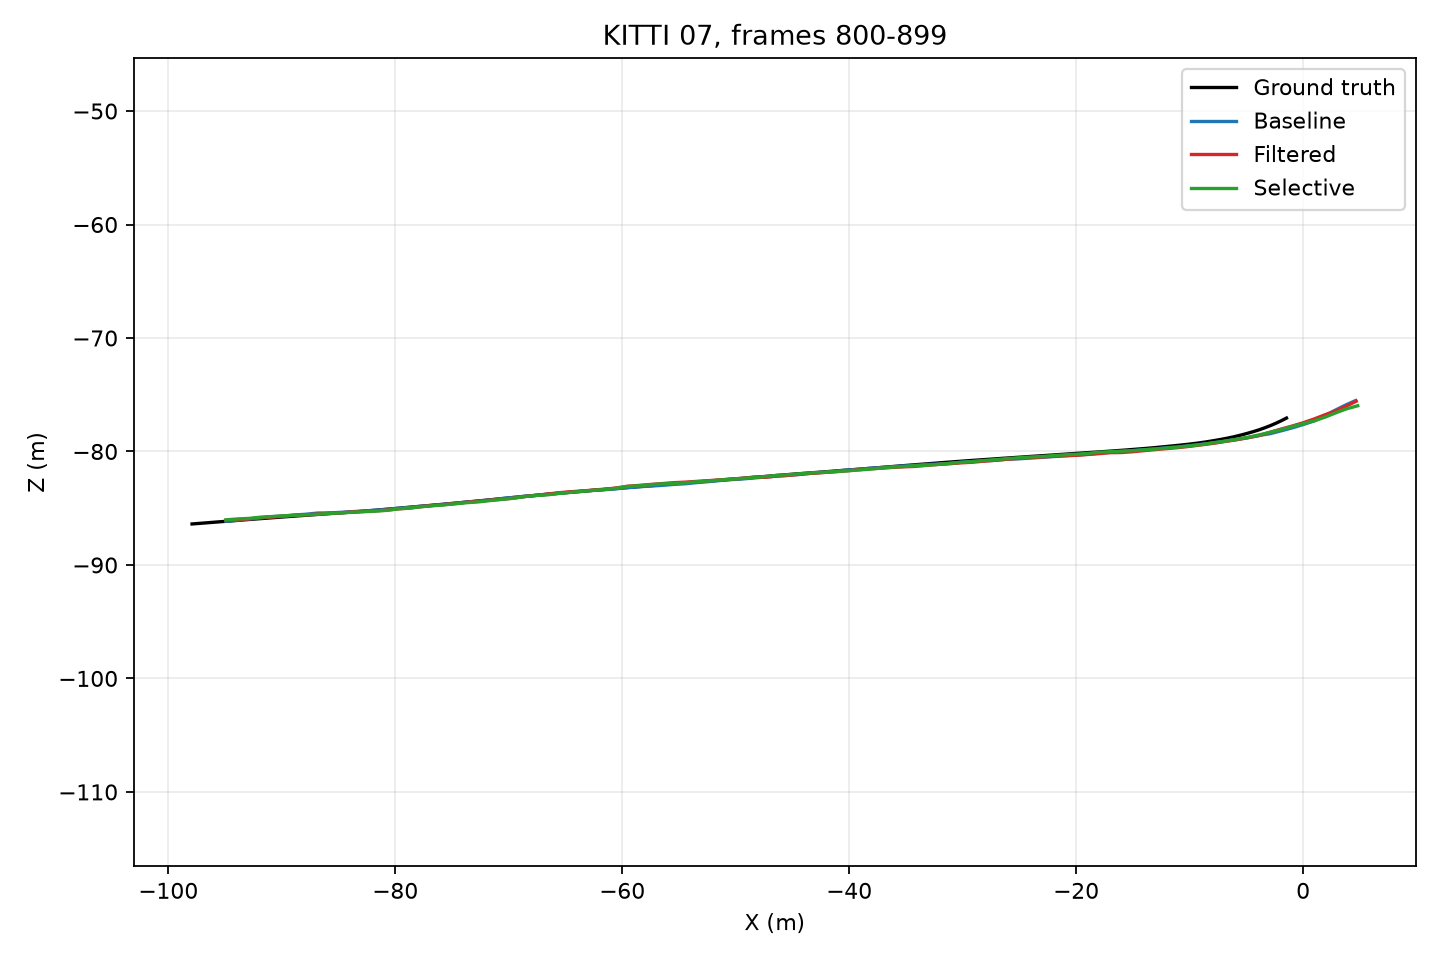
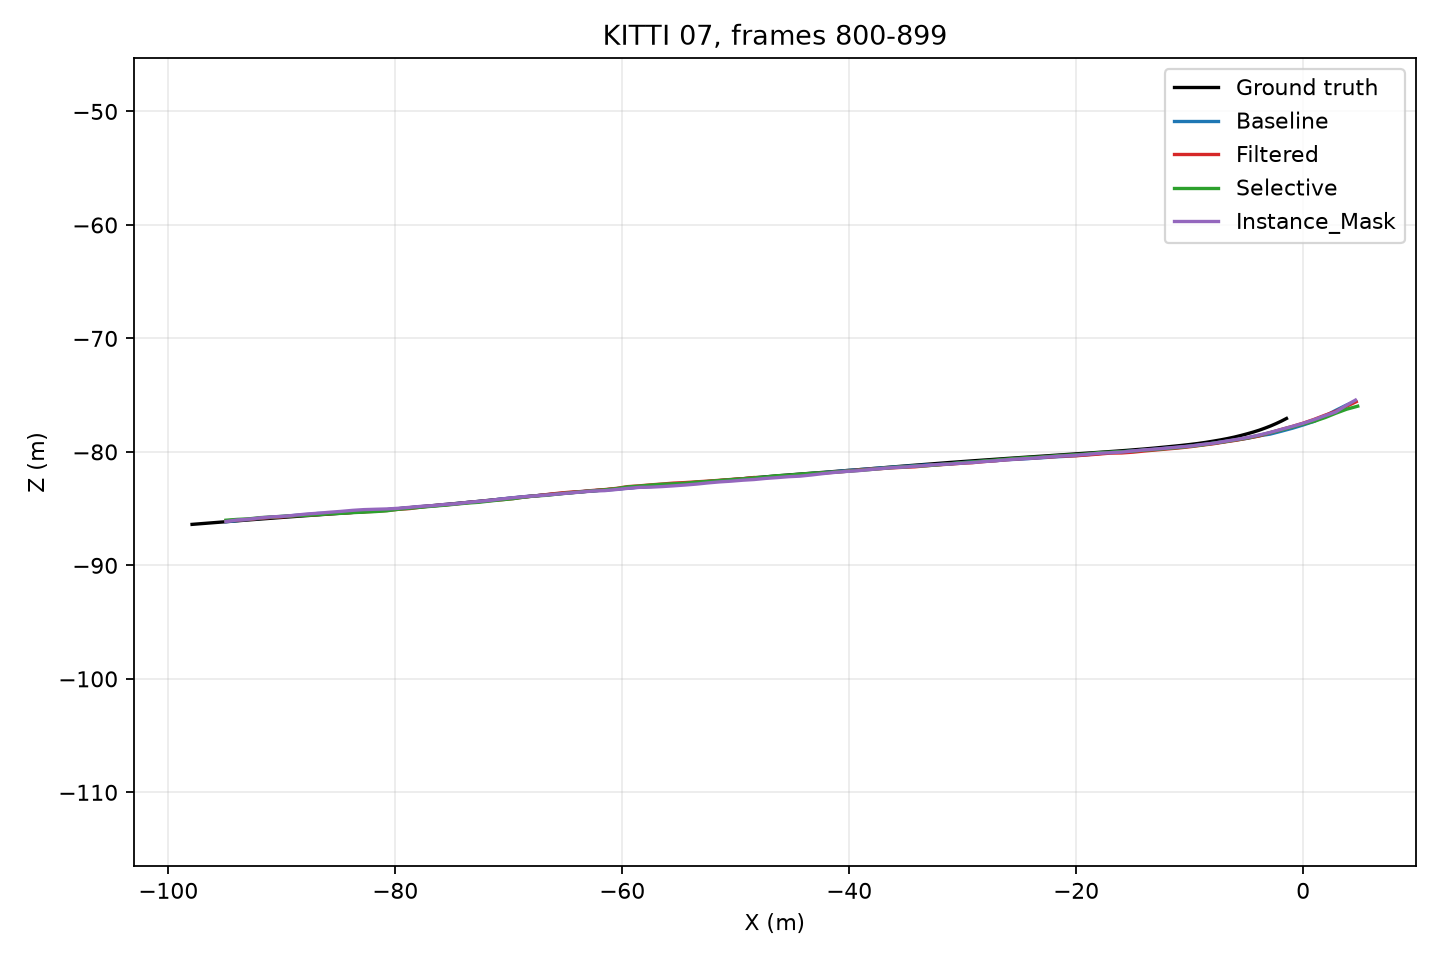
Add YOLO instance mask filtering

diff --git a/src/rvo/vo.py b/src/rvo/vo.py
@@ -59,6 +59,46 @@ def detect_boxes(model: YOLO, frame: np.ndarray, classes: set[str], confidence: 
     return boxes.xyxy.cpu().numpy()[selected], elapsed_ms
 
 
+def detect_instance_mask(model: YOLO, frame: np.ndarray, classes: set[str],
+                         confidence: float) -> tuple[np.ndarray, float]:
+    start = perf_counter()
+    result = model.predict(frame, device=0, conf=confidence, verbose=False)[0]
+    elapsed_ms = (perf_counter() - start) * 1000
+    height, width = frame.shape[:2]
+    combined = np.zeros((height, width), dtype=bool)
+    if result.masks is None or result.boxes is None or len(result.boxes) == 0:
+        return combined, elapsed_ms
+    categories = result.boxes.cls.cpu().numpy().astype(int)
+    selected = [i for i, class_id in enumerate(categories) if result.names[class_id] in classes]
+    if not selected:
+        return combined, elapsed_ms
+    masks = result.masks.data[selected].cpu().numpy()
+    for mask in masks:
+        if mask.shape != (height, width):
+            mask = cv2.resize(mask.astype(np.float32), (width, height),
+                              interpolation=cv2.INTER_NEAREST)
+        combined |= mask >= 0.5
+    return combined, elapsed_ms
+
+
+def outside_masks(before: np.ndarray, after: np.ndarray, previous_mask: np.ndarray,
+                  current_mask: np.ndarray, padding: int) -> np.ndarray:
+    if not len(before):
+        return np.zeros(0, dtype=bool)
+    height, width = previous_mask.shape
+    coords0 = np.rint(before).astype(int)
+    coords1 = np.rint(after).astype(int)
+    coords0[:, 0] = np.clip(coords0[:, 0], 0, width - 1)
+    coords0[:, 1] = np.clip(coords0[:, 1], 0, height - 1)
+    coords1[:, 0] = np.clip(coords1[:, 0], 0, width - 1)
+    coords1[:, 1] = np.clip(coords1[:, 1], 0, height - 1)
+    if padding > 0:
+        kernel = np.ones((padding * 2 + 1, padding * 2 + 1), np.uint8)
+        previous_mask = cv2.dilate(previous_mask.astype(np.uint8), kernel).astype(bool)
+        current_mask = cv2.dilate(current_mask.astype(np.uint8), kernel).astype(bool)
+    return ~previous_mask[coords0[:, 1], coords0[:, 0]] & ~current_mask[coords1[:, 1], coords1[:, 0]]
+
+
 def outside_boxes(points: np.ndarray, boxes: np.ndarray, padding: int) -> np.ndarray:
     keep = np.ones(len(points), dtype=bool)
     for left, top, right, bottom in boxes:
@@ -160,8 +200,13 @@ def run_window(root: Path, sequence: str, start_frame: int, frame_count: int,
     if not model_path.is_file():
         raise FileNotFoundError(f"Detector weights missing: {model_path}; run scripts/prepare_model.py")
     model = YOLO(str(model_path))
+    mask_model_path = Path(config["mask_filter"]["model"])
+    if not mask_model_path.is_file():
+        raise FileNotFoundError(f"Instance segmentation weights missing: {mask_model_path}; run scripts/prepare_model.py")
+    mask_model = YOLO(str(mask_model_path))
     classes = set(config["filter"]["classes"])
     confidence = float(config["filter"]["confidence"])
+    mask_confidence = float(config["mask_filter"]["confidence"])
     padding = int(config["filter"]["box_padding_px"])
 
     previous_color = cv2.imread(str(paths[0]), cv2.IMREAD_COLOR)
@@ -171,8 +216,12 @@ def run_window(root: Path, sequence: str, start_frame: int, frame_count: int,
     # Exclude model loading and the first CUDA warmup from measured frame times.
     model.predict(previous_color, device=0, conf=confidence, verbose=False)
     previous_boxes, previous_detection_ms = detect_boxes(model, previous_color, classes, confidence)
-    poses = {mode: [np.eye(4, dtype=np.float64)]
-             for mode in ("baseline", "filtered", "selective")}
+    mask_model.predict(previous_color, device=0, conf=mask_confidence, verbose=False)
+    previous_instance_mask, previous_mask_ms = detect_instance_mask(
+        mask_model, previous_color, classes, mask_confidence
+    )
+    poses = {mode: [np.eye(4, dtype=np.float64)] for mode in
+             ("baseline", "filtered", "selective", "instance_mask")}
     valid = {mode: [True] for mode in poses}
     records: list[dict] = []
 
@@ -202,12 +251,22 @@ def run_window(root: Path, sequence: str, start_frame: int, frame_count: int,
             config["selective"]
         )
         selective_ms = (perf_counter() - selective_start) * 1000
+        current_instance_mask, current_mask_ms = detect_instance_mask(
+            mask_model, current_color, classes, mask_confidence
+        )
+        mask_inference_ms = current_mask_ms + (previous_mask_ms if pair_number == 1 else 0.0)
+        mask_filter_start = perf_counter()
+        mask_keep = outside_masks(before, after, previous_instance_mask,
+                                  current_instance_mask, padding)
+        mask_filter_ms = (perf_counter() - mask_filter_start) * 1000
         selected_flow = np.linalg.norm(after[selective_mask] - before[selective_mask], axis=1)
         median_selected_flow = float(np.median(selected_flow)) if len(selected_flow) else float("inf")
 
         for mode in poses:
-            mask = {"baseline": None, "filtered": keep, "selective": selective_mask}[mode]
-            points_before, points_after = (before, after) if mask is None else (before[mask], after[mask])
+            feature_mask = {"baseline": None, "filtered": keep,
+                            "selective": selective_mask, "instance_mask": mask_keep}[mode]
+            points_before, points_after = ((before, after) if feature_mask is None
+                                           else (before[feature_mask], after[feature_mask]))
             step = estimate_step(points_before, points_after, K, poses[mode][-1], config["geometry"])
             inlier_ratio = step.ransac_inliers / step.submitted if step.submitted else 0.0
             low_motion_degeneracy = (
@@ -222,23 +281,28 @@ def run_window(root: Path, sequence: str, start_frame: int, frame_count: int,
                 total_ms += detection_ms + filtering_ms
             elif mode == "selective":
                 total_ms += detection_ms + selective_ms
+            elif mode == "instance_mask":
+                total_ms += mask_inference_ms + mask_filter_ms
             records.append({
                 "sequence": sequence, "frame": int(path.stem), "mode": mode,
                 "corners": corner_count, "tracked": len(before),
-                "removed": 0 if mask is None else int(np.count_nonzero(~mask)),
+                "removed": 0 if feature_mask is None else int(np.count_nonzero(~feature_mask)),
                 "active_boxes": active_boxes if mode == "selective" else 0,
                 "coverage_fallback": int(coverage_fallback) if mode == "selective" else 0,
                 "median_selected_flow_px": median_selected_flow if mode == "selective" else 0.0,
                 "low_motion_degeneracy": int(low_motion_degeneracy),
+                "mask_inference_ms": mask_inference_ms if mode == "instance_mask" else 0.0,
                 "submitted": step.submitted, "ransac_inliers": step.ransac_inliers,
                 "pose_inliers": step.pose_inliers, "valid": int(step.valid),
                 "read_ms": read_ms, "tracking_ms": tracking_ms,
-                "detection_ms": detection_ms if mode != "baseline" else 0.0,
+                "detection_ms": detection_ms if mode in ("filtered", "selective") else 0.0,
                 "filtering_ms": (filtering_ms if mode == "filtered" else
-                                 selective_ms if mode == "selective" else 0.0),
+                                 selective_ms if mode == "selective" else
+                                 mask_filter_ms if mode == "instance_mask" else 0.0),
                 "geometry_ms": step.geometry_ms, "total_ms": total_ms,
             })
         previous_gray, previous_boxes = current_gray, current_boxes
+        previous_instance_mask, previous_mask_ms = current_instance_mask, current_mask_ms
 
     return records, {key: np.stack(value) for key, value in poses.items()}, {
         key: np.asarray(value, dtype=bool) for key, value in valid.items()

diff --git a/scripts/prepare_model.py b/scripts/prepare_model.py
@@ -8,23 +8,25 @@ from ultralytics import YOLO
 
 
 def main() -> None:
-    destination = Path("data/models/yolo11n.pt")
-    destination.parent.mkdir(parents=True, exist_ok=True)
-    if not destination.is_file():
-        model = YOLO("yolo11n.pt")
-        source = Path(model.ckpt_path)
-        if source.resolve() != destination.resolve():
-            shutil.move(str(source), str(destination))
-    model = YOLO(str(destination))
-    print(f"Model: {destination.resolve()} ({destination.stat().st_size / 1e6:.1f} MB)")
     print(f"CUDA available: {torch.cuda.is_available()}")
     if not torch.cuda.is_available():
         raise RuntimeError("CUDA is unavailable in the project environment")
     print(f"GPU: {torch.cuda.get_device_name(0)}")
     frame = Path("data/kitti/sequences/00/image_2/000000.png")
-    if frame.is_file():
-        result = model.predict(str(frame), device=0, verbose=False)[0]
-        print(f"Detector inference: {len(result.boxes)} boxes on {frame.name}")
+    for name in ("yolo11n.pt", "yolo11n-seg.pt"):
+        destination = Path("data/models") / name
+        destination.parent.mkdir(parents=True, exist_ok=True)
+        if not destination.is_file():
+            model = YOLO(name)
+            source = Path(model.ckpt_path)
+            if source.resolve() != destination.resolve():
+                shutil.move(str(source), str(destination))
+        model = YOLO(str(destination))
+        print(f"Model: {destination.resolve()} ({destination.stat().st_size / 1e6:.1f} MB)")
+        if frame.is_file():
+            result = model.predict(str(frame), device=0, verbose=False)[0]
+            extras = f", {len(result.masks) if result.masks is not None else 0} masks" if "-seg" in name else ""
+            print(f"Inference: {len(result.boxes)} boxes{extras} on {frame.name}")
 
 
 if __name__ == "__main__":

diff --git a/src/rvo/run.py b/src/rvo/run.py
@@ -26,7 +26,8 @@ def save_plot(path: Path, reference: np.ndarray, aligned: dict[str, np.ndarray],
               valid: dict[str, np.ndarray], title: str) -> None:
     figure, axis = plt.subplots(figsize=(9, 6))
     axis.plot(reference[:, 0, 3], reference[:, 2, 3], label="Ground truth", color="black")
-    colors = {"baseline": "#1f77b4", "filtered": "#d62728", "selective": "#2ca02c"}
+    colors = {"baseline": "#1f77b4", "filtered": "#d62728",
+              "selective": "#2ca02c", "instance_mask": "#9467bd"}
     for mode, poses in aligned.items():
         axis.plot(poses[:, 0, 3], poses[:, 2, 3], label=mode.title(), color=colors[mode])
         failures = ~valid[mode]
@@ -71,7 +72,8 @@ def main() -> None:
         summary = {"sequence": sequence, "start_frame": start, "frame_count": count,
                    "camera": config["dataset"]["camera"], "detector": config["filter"]["model"],
                    "selective_settings": config["selective"],
-                   "diagnostic_settings": config["diagnostics"], "metrics": {}}
+                   "diagnostic_settings": config["diagnostics"],
+                   "mask_model": config["mask_filter"]["model"], "metrics": {}}
         aligned = {}
         common_valid = np.logical_and.reduce(list(valid.values()))
         summary["common_valid_poses"] = int(np.count_nonzero(common_valid))

diff --git a/docs/initial_results.md b/docs/initial_results.md
@@ -1,24 +1,27 @@
 # Initial VO results and failure analysis
 
-Run: `python -m rvo.run` with `configs/kitti_mvp.toml`, KITTI left color camera, YOLO11n, NVIDIA GeForce RTX 4070 Ti. These are exploratory windows, not a broad KITTI benchmark. ATE uses one Sim(3) fit per variant on poses valid in all three variants. All-frame ATE uses every frame, including the carried pose at a failed estimate. RPE uses 10-frame intervals with endpoints valid in all variants.
+Run: `python -m rvo.run` with `configs/kitti_mvp.toml`, KITTI left color camera, YOLO11n and YOLO11n-seg, NVIDIA GeForce RTX 4070 Ti. These are exploratory windows, not a broad KITTI benchmark. ATE uses one Sim(3) fit per variant on poses valid in all four variants. All-frame ATE uses every frame, including the carried pose at a failed estimate. RPE uses 10-frame intervals with endpoints valid in all variants.
 
 | Sequence / frames | Method | Common-pose ATE (m) | All-frame ATE (m) | Pose failures | Mean time (ms/frame) |
 | --- | --- | ---: | ---: | ---: | ---: |
 | 00 / 0-299 | Baseline | 5.16 | 5.16 | 0 / 299 | 46.6 |
 | 00 / 0-299 | Hard boxes | 5.11 | 5.11 | 0 / 299 | 60.8 |
 | 00 / 0-299 | Selective flow gate | 5.14 | 5.14 | 0 / 299 | 61.5 |
-| 07 / 600-899 | Baseline | 7.80 | 8.29 | 32 / 299 | 50.1 |
-| 07 / 600-899 | Hard boxes | 6.97 | 5.93 | 91 / 299 | 64.7 |
-| 07 / 600-899 | Selective flow gate | 7.28 | 6.16 | 84 / 299 | 65.7 |
-| 07 / 800-899 | Baseline | 1.99 | 1.99 | 0 / 99 | 50.6 |
-| 07 / 800-899 | Hard boxes | 1.99 | 1.99 | 0 / 99 | 64.2 |
-| 07 / 800-899 | Selective flow gate | 2.00 | 2.00 | 0 / 99 | 65.0 |
+| 00 / 0-299 | Instance masks | 5.06 | 5.06 | 0 / 299 | 64.1 |
+| 07 / 600-899 | Baseline | 7.82 | 8.29 | 32 / 299 | 50.0 |
+| 07 / 600-899 | Hard boxes | 6.99 | 5.93 | 91 / 299 | 61.8 |
+| 07 / 600-899 | Selective flow gate | 7.30 | 6.16 | 84 / 299 | 62.8 |
+| 07 / 600-899 | Instance masks | 7.01 | 5.80 | 81 / 299 | 64.8 |
+| 07 / 800-899 | Baseline | 1.99 | 1.99 | 0 / 99 | 51.0 |
+| 07 / 800-899 | Hard boxes | 1.99 | 1.99 | 0 / 99 | 64.8 |
+| 07 / 800-899 | Selective flow gate | 2.00 | 2.00 | 0 / 99 | 65.9 |
+| 07 / 800-899 | Instance masks | 1.99 | 1.99 | 0 / 99 | 67.9 |
 
-The 600-899 ATE comparison uses 204 poses valid in all variants; the other windows use every pose. The selective filter removes about 263 of 1,388 tracked features per frame in that window, compared with about 300 for hard boxes. It reduces failures from 91 to 84, a modest change. Its spatial-coverage fallback did not trigger in any of the three windows. Sixty of its failures meet the low-flow degeneracy rule (`median retained flow <= 4 px` and RANSAC inlier ratio `>= 0.8`). Those frames remain **failures**, with the last pose carried only for plotting and all-frame ATE.
+The 600-899 ATE comparison uses 203 poses valid in all four variants; the other windows use every pose. In that window instance masks remove about 229 of 1,388 tracked features per frame, compared with about 300 for boxes. They reduce failures from 91 to 81, a modest improvement, while all-frame ATE falls from 5.93 m to 5.80 m. The spatial-coverage fallback did not trigger. The selective flow gate has 60 low-motion degeneracy frames (`median retained flow <= 4 px` and RANSAC inlier ratio `>= 0.8`); those remain failures.
 
 The main failure cluster occurs around frames 643-738. The median ground-truth step in the 640-740 interval is about 0.009 m, while many failed filtered frames still have hundreds of RANSAC inliers and fewer than eight `recoverPose` inliers. This supports a near-stationary/low-parallax explanation. Ground truth was used for this diagnosis and evaluation only, never for pose estimation. Calling the carried pose a new successful estimate would not change the trajectory, so the runner does not do that.
 
-On the moving-camera slice, frames 800-899, all three methods complete every pair and their ATE is effectively equal. These windows do not yet show a consistent accuracy benefit from object filtering. The filter adds roughly 14-15 ms per frame in this run. Timing includes frame read, Shi-Tomasi/Lucas-Kanade tracking, geometry, and YOLO inference plus filtering where applicable; model loading and CUDA warmup are excluded.
+On the moving-camera slice, frames 800-899, all methods complete every pair and their ATE is effectively equal. The experiments do not yet show a consistent accuracy benefit from object filtering. Instance masks add about 14-17 ms per frame here. Timing includes frame read, Shi-Tomasi/Lucas-Kanade tracking, geometry, and model inference plus filtering where applicable; model loading and CUDA warmup are excluded.
 
 ## Visuals
 

diff --git a/docs/experiment_protocol.md b/docs/experiment_protocol.md
@@ -5,7 +5,7 @@
 - Use KITTI odometry training sequences with left color frames (`image_2`), matching `P2` calibration, and poses at the same integer frame indices.
 - Record the exact sequence and contiguous frame range for every run. Initial comparison: sequence 00 frames 0-299 (quieter residential streets), sequence 07 frames 600-899 (crossing traffic and a near-stop), and a moving-camera slice of sequence 07 frames 800-899.
 - Run the same Shi-Tomasi, Lucas-Kanade, essential-matrix RANSAC, and `recoverPose` settings in all variants. Fix random seeds where supported.
-- Baseline: keep all valid tracked features. Filtered: discard a track if either endpoint falls within a padded YOLO box of a configured potentially moving class. Selective: reject a box only if median tracked flow inside it differs from background flow by at least the configured threshold. If the retained tracks do not meet count and image-grid coverage thresholds, use all tracks for that frame. A class label marks *potential* motion; parked cars may be wrongly discarded by the hard filter, while flow gating is only a heuristic for object motion.
+- Baseline: keep all valid tracked features. Hard boxes: discard a track if either endpoint falls within a padded YOLO box of a configured potentially moving class. Selective: reject a box only if median tracked flow inside it differs from background flow by at least the configured threshold. Instance masks: discard a track if either endpoint falls inside the union of padded YOLO segmentation masks for configured classes. If a filter leaves too few tracks or insufficient image-grid coverage, use all tracks for that frame. A class label marks *potential* motion; parked cars may be wrongly discarded by hard boxes, while flow gating is only a heuristic for object motion.
 - Do not use ground truth poses, frame-to-frame ground truth distance, or detection labels to estimate camera motion.
 
 ## Per-frame record
@@ -19,6 +19,6 @@ Save frame index, estimated 4x4 pose, number of detected corners, number of trac
 - **RPE:** relative rotation and translation error over fixed frame intervals after the same sequence-level scale alignment. Use only pairs whose endpoints were valid in all variants.
 - **Inlier ratio:** RANSAC inliers divided by correspondences submitted to RANSAC, aggregated with numerator and denominator totals.
 - **Tracking failure rate:** failed pose-estimation frames divided by attempted frame pairs.
-- **Processing time:** mean and median milliseconds per frame, including YOLO inference in the filtered run. Report GPU model and detector weights.
+- **Processing time:** mean and median milliseconds per frame, including YOLO inference and filtering for each applicable variant. Report GPU model and weights for both detection and segmentation.
 
 Compare all variants on identical frames and use the common valid frame set for ATE and RPE. Inspect annotated examples where filtering helps and hurts. Keep the original trajectory and metric files under `outputs/` so reported numbers can be reproduced.

diff --git a/README.md b/README.md
@@ -1,6 +1,6 @@
 # Robust Visual Odometry Under Dynamic Objects
 
-Compare monocular feature-based visual odometry using a baseline, hard YOLO box filtering, and selective flow-gated filtering. The experiment uses a quieter window from KITTI odometry sequence 00 and traffic windows from sequence 07, left color camera (`image_2`), matching calibration, and ground truth poses.
+Compare monocular feature-based visual odometry using a baseline, hard YOLO box filtering, selective flow-gated filtering, and YOLO instance-mask filtering. The experiment uses a quieter window from KITTI odometry sequence 00 and traffic windows from sequence 07, left color camera (`image_2`), matching calibration, and ground truth poses.
 
 ## Layout
 
@@ -45,7 +45,7 @@ KITTI sequences 00-10 include ground truth; sequences 11-21 do not. Use camera `
 
 ## First experiment
 
-Settings live in `configs/kitti_mvp.toml`; the comparison rules and metric definitions are in `docs/experiment_protocol.md`. Both variants will share detection, tracking, RANSAC, and pose settings. The filtered variant will remove tracks intersecting YOLO boxes for potentially moving classes. Planned outputs: ATE, translation and rotation RPE, inlier ratio, failure rate, processing time, trajectories, and annotated frames.
+Settings live in `configs/kitti_mvp.toml`; the comparison rules and metric definitions are in `docs/experiment_protocol.md`. The baseline, hard-box, selective-flow, and instance-mask variants share tracking, RANSAC, and pose settings. Outputs include ATE, translation and rotation RPE, failure rate, processing time, trajectories, and annotated frames.
 
 The 300-frame windows make iteration manageable. Additional local exploratory frames from sequences 01 and 05 are present on this machine; they are outside the first experiment. Record exact frame ranges with every result.
 
@@ -58,6 +58,8 @@ The 300-frame windows make iteration manageable. Additional local exploratory fr
 The runner uses the configured windows and writes per-frame records, estimated poses, metric summaries, and trajectory plots under `outputs/kitti_mvp/`. For a shorter development run, add `--limit 30`; for one sequence, add `--sequences 07`. All variants use the same decoded frames and tracked correspondences before filtering.
 
 The current results and failure analysis are summarized in `docs/initial_results.md` with trajectory plots and a feature-filtering example. To inspect flow and ground-truth motion at the failure frames, run `python scripts/diagnose_motion.py`; ground truth is used only for diagnosis and evaluation.
+
+The instance-mask variant uses `yolo11n-seg.pt` and excludes a feature if either endpoint falls inside a padded object mask. Run `scripts/prepare_model.py` to fetch both detection and segmentation weights before running the comparison.
 
 To inspect which features are removed near crossing traffic:
 
